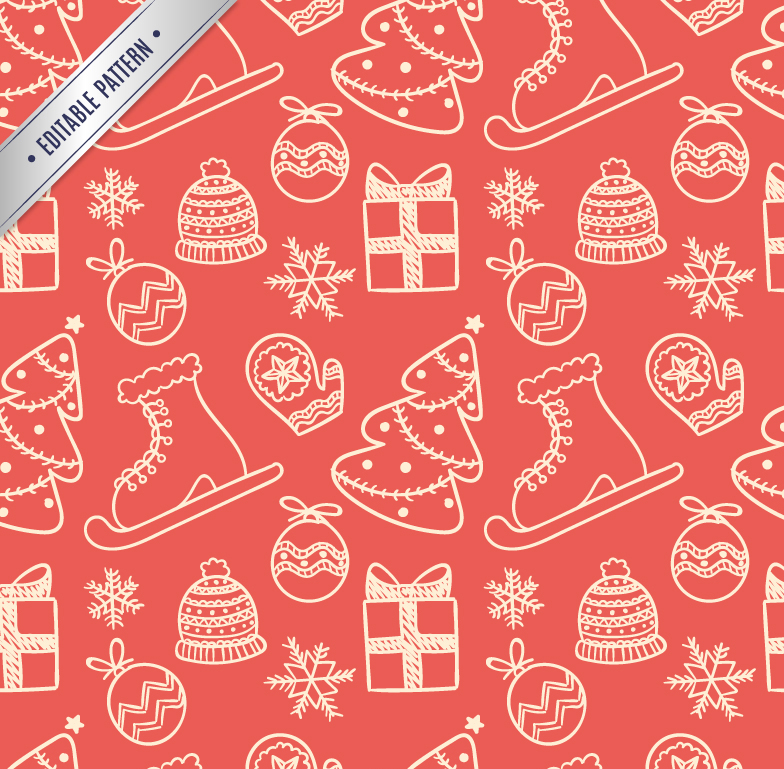
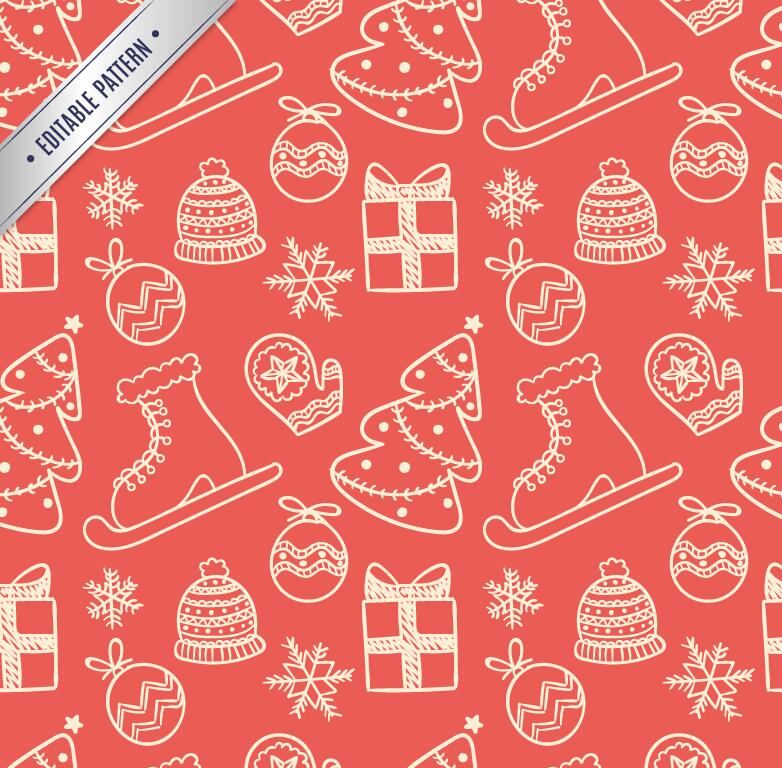
compress pics

diff --git a/index.html b/index.html
@@ -10,13 +10,13 @@
 <body>
 	<div id="gallery" class="img-list">
 		<a data="cp/20150105569415.1685/YX22882-l2_C_-家电扒光价.jpg" href="javascript:void(0);" onclick="return showImg(this)">
-			<img style="height: 500px" src="cp/20150105569415.1685/YX22882-l2_C_-家电扒光价.thumb.jpg" />
+			<img style="height: 250px" src="cp/20150105569415.1685/YX22882-l2_C_-家电扒光价.thumb.jpg" />
 		</a>
 		<a data="cp/20150104093948.1356/SQ22854周四会员福利定稿.jpg" href="javascript:void(0);" onclick="return showImg(this)">
-			<img style="height: 500px" src="cp/20150104093948.1356/SQ22854周四会员福利定稿.thumb.jpg">
+			<img style="height: 250px" src="cp/20150104093948.1356/SQ22854周四会员福利定稿.thumb.jpg">
 	    </a>
 		<a data="cp/20150105569415.1777/SQ22854xxx.jpg" href="javascript:void(0);" onclick="return showImg(this)">
-			<img style="height: 500px" src="cp/20150105569415.1777/SQ22854xxx.thumb.jpg">
+			<img style="height: 250px" src="cp/20150105569415.1777/SQ22854xxx.thumb.jpg">
 		</a>
 	</div>	
 	<div id="zoomLayer" class="zoom100" style="display:none;"><img id="zoomImg" class="loading" src="img/loading100.gif" /></div>
